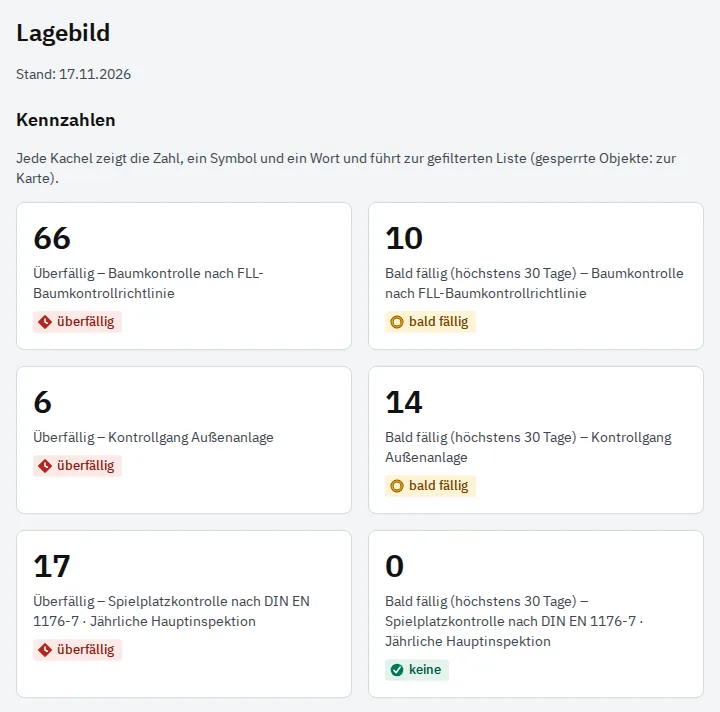
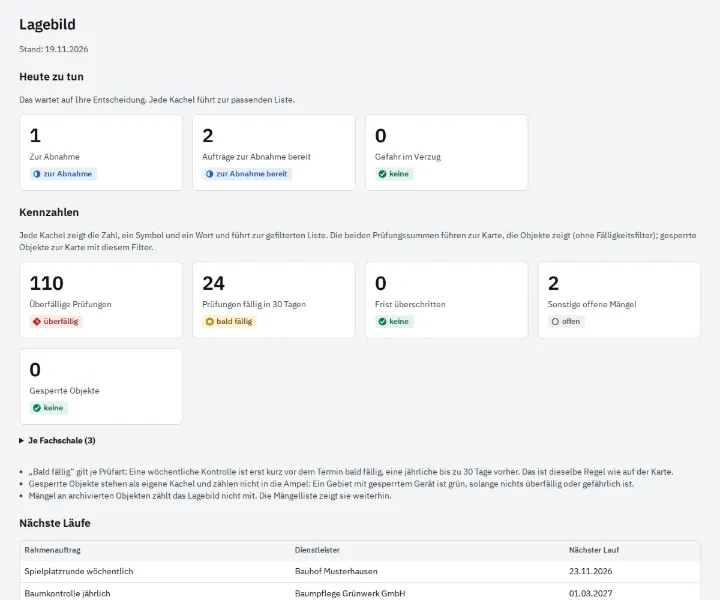
Website auf UX-Paket und Teilprojekt 9 aktualisiert
Neue Bilder (Lagebild-Hero mit „Heute zu tun“, Karte neues Layout, Auftrag anlegen,
Auftrags-Ergebnis, Nachweis), Texte zu Auftrag anlegen in drei Schritten, Ergebnis
mit Mängeln zuerst, Nachweis & Protokoll, Heute zu tun. Austauschprofile und
OGC API Features als Funktion statt „In Kürze“; README bereinigt.

diff --git a/index.html b/index.html
@@ -207,7 +207,6 @@ img{max-width:100%;height:auto;display:block}
 .tag-neu{background:var(--status-done-surface);color:var(--status-done-text)}
 .tag-offline{background:var(--brand-subtle);color:var(--brand)}
 .tag-ki{background:var(--status-progress-surface);color:var(--status-progress-text)}
-.tag-bald{background:var(--status-open-surface);color:var(--status-open-text);border:1px dashed var(--border-control)}
 .note{font-size:.95rem;color:var(--text-secondary);margin:1.5rem 0 0;max-width:52em}
 .pair{margin-top:3rem;max-width:960px}
 
@@ -243,7 +242,7 @@ th{font-weight:600;border-bottom:2px solid var(--text-primary)}
 td code{white-space:nowrap}
 .formats{display:flex;flex-wrap:wrap;gap:.5rem;margin:0 0 1.25rem;padding:0;list-style:none}
 .formats li{border:1px solid var(--border-control);border-radius:999px;padding:.15rem .7rem;font-weight:600;font-size:.88rem}
-.soon{border:1px dashed var(--border-control);border-radius:8px;padding:1rem 1.15rem;margin:1.5rem 0}
+.soon{border:1px solid var(--border-control);border-radius:8px;padding:1rem 1.15rem;margin:1.5rem 0}
 .soon p{margin:0;font-size:.97rem;color:var(--text-secondary)}
 .soon .tag{margin-bottom:.5rem}
 
@@ -297,7 +296,7 @@ footer p{margin:0 0 .4rem}
         </div>
         <p class="audience">Für Kommunen und Facility Management, Baumpflege- und Spielplatzdienstleister und den eigenen Bauhof.<br>Code unter EUPL-1.2, Fachschalen und Doku unter CC&nbsp;BY&nbsp;4.0.</p>
       </div>
-      <figure class="shot"><div class="shot-frame"><picture><source media="(max-width: 760px)" srcset="bilder/lagebild-720.webp" width="720" height="712"><img src="bilder/lagebild-1440.webp" width="1168" height="954" alt="Lagebild mit Kennzahlen-Kacheln: überfällige und bald fällige Kontrollen je Fachschale und Prüfart, offene Mängel, gesperrte Objekte, Aufträge zur Abnahme" fetchpriority="high" decoding="async"></picture></div><figcaption>Lagebild, die Startseite der FM. Darunter folgen nächste Läufe, Ampel je Gebiet und Termintreue. Demodaten.</figcaption></figure>
+      <figure class="shot"><div class="shot-frame"><picture><source media="(max-width: 760px)" srcset="bilder/lagebild-720.webp" width="720" height="600"><img src="bilder/lagebild-1440.webp" width="1440" height="1200" alt="Lagebild der FM: oben „Heute zu tun“ mit den Kacheln Zur Abnahme, Aufträge zur Abnahme bereit und Gefahr im Verzug, darunter Kennzahlen wie überfällige Prüfungen, Prüfungen fällig in 30 Tagen, offene Mängel und gesperrte Objekte, danach die nächsten Läufe der Rahmenaufträge" fetchpriority="high" decoding="async"></picture></div><figcaption>Lagebild, die Startseite der FM: oben „Heute zu tun“, darunter die Kennzahlen. Weiter unten folgen nächste Läufe, Ampel je Gebiet und Termintreue. Demodaten.</figcaption></figure>
     </div>
   </section>
 
@@ -311,15 +310,17 @@ footer p{margin:0 0 .4rem}
           <div class="step-text">
             <div class="step-no" aria-hidden="true">1</div>
             <h3>Bestand übernehmen, Auftrag erteilen.</h3>
-            <p>Bäume, Spielplätze und Spielgeräte kommen aus Ihrem Kataster. Auf der Karte wählen Sie Gebiet und fällige Objekte, Werkspur baut daraus ein Auftragspaket für den Dienstleister.</p>
+            <p>Bäume, Spielplätze und Spielgeräte kommen aus Ihrem Kataster. Der Auftrag entsteht in drei Schritten: Was wird geprüft, welche Objekte, wer und bis wann. Die Objekte wählen Sie auf der Karte, Werkspur baut daraus die Auftragsdatei für den Dienstleister.</p>
             <ul class="points">
               <li>Import aus GeoJSON, GeoPackage, CSV, Shapefile, KML, GML oder FlatGeobuf, mit Prüfbericht je Zeile vor dem Übernehmen</li>
               <li>Fälligkeit je Objekt, beim Spielplatz je Prüfart: Routine, operativ, Hauptinspektion</li>
-              <li>Auftrag mit Fachschale, Zeitraum, Dienstleister und auf Wunsch geforderter Qualifikation</li>
+              <li>Auftrag mit Fachschale, Zeitraum, Dienstleister und auf Wunsch geforderter Qualifikation; die Bezeichnung schlägt Werkspur aus Prüfart, Gebiet und Zeitraum vor</li>
+              <li>Offene Mängel an gewählten Objekten kommen angehakt mit und lassen sich abwählen, so wird nichts doppelt beauftragt</li>
+              <li>Eine feste Zusammenfassung mit „Entwurf anlegen“ bleibt beim Scrollen sichtbar, auch am Handy</li>
               <li>Rahmenaufträge legen wiederkehrende Kontrollen selbst an, wöchentlich bis jährlich</li>
             </ul>
           </div>
-          <figure class="shot"><div class="shot-frame"><picture><source media="(max-width: 760px)" srcset="bilder/auftrag-anlegen-720.webp" width="686" height="862"><img src="bilder/auftrag-anlegen-1440.webp" width="1134" height="581" alt="Karte zur Objektauswahl beim Anlegen eines Auftrags: 90 Bäume der Altstadt nach Stand, Legende mit Anzahlen, Knopf „Alle 90 angezeigten wählen“" loading="lazy" decoding="async"></picture></div><figcaption>Auftrag anlegen: Gebiet wählen, fällige Objekte auf der Karte auswählen.</figcaption></figure>
+          <figure class="shot"><div class="shot-frame"><picture><source media="(max-width: 760px)" srcset="bilder/auftrag-anlegen-720.webp" width="720" height="823"><img src="bilder/auftrag-anlegen-1440.webp" width="1440" height="1646" alt="Schritt „2. Welche Objekte?“ beim Anlegen eines Auftrags: Gebiet Altstadt, Stichtag, Karte mit 90 Bäumen nach Stand, darunter der Kasten Auswahl mit „90 Objekte gewählt, davon 39 überfällig, davon 0 mit Mangel“ und den Knöpfen „Alle 90 angezeigten wählen“ und „Auswahl leeren“" loading="lazy" decoding="async"></picture></div><figcaption>Auftrag anlegen, Schritt 2: Gebiet wählen, Objekte auf der Karte anklicken oder mit einem Rechteck auswählen. Der Kasten „Auswahl“ zählt mit.</figcaption></figure>
         </li>
         <li class="step">
           <div class="step-text">
@@ -373,21 +374,23 @@ footer p{margin:0 0 .4rem}
           <div class="step-text">
             <div class="step-no" aria-hidden="true">3</div>
             <h3>Rückgabe prüfen, Mängel beheben lassen.</h3>
-            <p>Der Dienstleister lädt die Rückgabe hoch. Werkspur übernimmt die Kontrollen, erkennt Konflikte und legt Mängel mit Frist an. Aus offenen Mängeln wird ein Maßnahmenauftrag, die Erledigung nimmt die FM ab.</p>
+            <p>Der Dienstleister lädt die Rückgabe hoch. Werkspur übernimmt die Kontrollen, erkennt Konflikte und legt Mängel mit Frist an. Die Auftragsseite zeigt das Ergebnis auf einen Blick, Mängel stehen zuerst. Aus offenen Mängeln wird ein Maßnahmenauftrag, die Erledigung nimmt die FM ab.</p>
             <ul class="points">
               <li>Feldweiser Abgleich: Was draußen erfasst wurde, geht nie verloren, echte Konflikte entscheidet ein Mensch</li>
               <li>Meldung „Ausgeführt“ mit Nachher-Foto, „Teilweise“ oder „Nicht möglich“ mit Bemerkung</li>
-              <li>Abnahme einzeln, gesammelt oder mit Begründung zurückgewiesen</li>
+              <li>Ergebniszeile mit „20 von 20 kontrolliert“, „4 Objekte mit Mangel“, Konflikten und Markierungen, darunter die Mängel mit Frist und Gefahr im Verzug</li>
+              <li>Alle Rückmeldungen je Objekt eingeklappt, jede mit allen Angaben aus der Rückgabe</li>
+              <li>Abnahme des Auftrags mit Namen und Zeit festgehalten, Erledigungen einzeln, gesammelt oder mit Begründung zurückgewiesen</li>
               <li>Rückmeldungen ohne geforderte Qualifikation werden angenommen und sichtbar markiert</li>
             </ul>
           </div>
-          <figure class="shot"><div class="shot-frame"><picture><source media="(max-width: 760px)" srcset="bilder/auftrag-rueckmeldungen-720.webp" width="720" height="1622"><img src="bilder/auftrag-rueckmeldungen-1440.webp" width="1168" height="1290" alt="Abgeschlossener Auftrag „Regelkontrolle Stadtpark“ mit Paketstand, Karte mit 16 kontrollierten Bäumen und 4 Mängeln und den ersten Rückmeldungen, eine davon mit Vermerk o. B." loading="lazy" decoding="async"></picture></div><figcaption>Auftrag nach der Rückgabe: Stand auf der Karte, Rückmeldungen je Baum, Abnahme und Nachweis.</figcaption></figure>
+          <figure class="shot"><div class="shot-frame"><picture><source media="(max-width: 760px)" srcset="bilder/auftrag-ergebnis-720.webp" width="720" height="281"><img src="bilder/auftrag-ergebnis-1440.webp" width="1440" height="562" alt="Abschnitt „Ergebnis“ eines abgeschlossenen Auftrags: Ergebniszeile mit „20 von 20 kontrolliert“, „4 Objekte mit Mangel“, 0 Konflikten, darunter die Tabelle „Mängel aus diesem Auftrag“ mit Objekt, Befund, Maßnahme, Frist, Gefahr im Verzug und Status" loading="lazy" decoding="async"></picture></div><figcaption>Ergebnis eines Auftrags nach der Rückgabe: Ergebniszeile, darunter die Mängel mit Frist. Die Tabelle ist hier auf zwei Zeilen gekürzt. Demodaten.</figcaption></figure>
         </li>
         <li class="step">
           <div class="step-text">
             <div class="step-no" aria-hidden="true">4</div>
             <h3>Nachweisen, prüfbar auch ohne Werkspur.</h3>
-            <p>Jedes Ereignis steht in einer unveränderbaren Hash-Kette je Organisation. Der Nachweis als PDF trägt den Kettenstand und einen Zeitstempel nach RFC&nbsp;3161.</p>
+            <p>Jedes Ereignis steht in einer unveränderbaren Hash-Kette je Organisation. Der Nachweis als PDF trägt den Kettenstand und einen Zeitstempel nach RFC&nbsp;3161. Auf jeder Auftragsseite liegt er im eingeklappten Bereich „Nachweis &amp; Protokoll“.</p>
             <ul class="points">
               <li>Nachweis je Auftrag, Objekt oder Gebiet mit Karte, Mängeln, Abnahme und Fotos mit SHA-256</li>
               <li>Das Zeitstempel-Token hängt am PDF und lässt sich mit <code>openssl ts -verify</code> prüfen</li>
@@ -395,7 +398,7 @@ footer p{margin:0 0 .4rem}
               <li>Ausstiegs-Export der ganzen Organisation, jederzeit und vollständig</li>
             </ul>
           </div>
-          <figure class="shot"><div class="shot-frame"><picture><source media="(max-width: 760px)" srcset="bilder/nachweis-720.webp" width="623" height="383"><img src="bilder/nachweis-1440.webp" width="1168" height="383" alt="Liste der Nachweise mit Umfang, Kettenstand „Kette geprüft“, Status und SHA-256-Prüfsumme je PDF" loading="lazy" decoding="async"></picture></div><figcaption>Nachweise mit Kettenstand und SHA-256. In der Testumgebung ist die Zeitstempelstelle abgeschaltet, im Betrieb steht hier der RFC-3161-Zeitstempel.</figcaption></figure>
+          <figure class="shot"><div class="shot-frame"><picture><source media="(max-width: 760px)" srcset="bilder/nachweis-720.webp" width="720" height="240"><img src="bilder/nachweis-1440.webp" width="1440" height="479" alt="Nachweis eines Auftrags als PDF-Bericht: Status „Fertig“, Stand mit Ereignisnummer und Hash, „Kette geprüft“, Zeitstempel, SHA-256-Prüfsumme mit Knopf „Kopieren“ und „Herunterladen“" loading="lazy" decoding="async"></picture></div><figcaption>Nachweis mit Kettenstand und SHA-256 im Bereich „Nachweis &amp; Protokoll“ des Auftrags. In der Testumgebung ist die Zeitstempelstelle abgeschaltet, im Betrieb steht hier der RFC-3161-Zeitstempel.</figcaption></figure>
         </li>
       </ol>
     </div>
@@ -407,26 +410,26 @@ footer p{margin:0 0 .4rem}
       <h2 id="fh">Vom Baumkataster bis zum Lagebericht.</h2>
       <p class="sec-lead">Zettel, Excel-Listen und Mails mit Fotos werden überflüssig. Die Weboberfläche läuft am Rechner, Tablet und Handy, alle Texte sind Deutsch.</p>
       <div class="grid">
-        <div class="cell"><span class="tag tag-neu">Neu</span><h3>Lagebild</h3><p>Startseite der FM: überfällige und bald fällige Kontrollen, offene Mängel nach Dringlichkeit, gesperrte Geräte, Ampel je Gebiet als Liste und Karte, Warnungen und Termintreue je Dienstleister.</p></div>
+        <div class="cell"><span class="tag tag-neu">Neu</span><h3>Lagebild</h3><p>Startseite der FM. Oben „Heute zu tun“: was auf Ihre Abnahme wartet und wo Gefahr im Verzug ist, jede Kachel führt zur passenden Liste. Darunter Kennzahlen zu überfälligen und bald fälligen Prüfungen, offenen Mängeln und gesperrten Objekten, dazu Ampel je Gebiet, Warnungen und Termintreue je Dienstleister.</p></div>
         <div class="cell"><span class="tag tag-neu">Neu</span><h3>Rahmenaufträge</h3><p>Wiederkehrende Kontrollen planen statt einzeln anlegen: je Fachschale, Prüfart, Gebiet und Dienstleister, als Entwurf oder automatisch freigegeben. Mit Vorschau des nächsten Laufs.</p></div>
         <div class="cell"><span class="tag tag-neu">Neu</span><h3>Lagebericht als PDF</h3><p>Stand der Verkehrssicherung zum Stichtag für Leitung und Gremien. Auf Knopfdruck oder monatlich, mit SHA-256 und Zeitstempel wie jeder Nachweis.</p></div>
         <div class="cell"><span class="tag tag-offline">Offline</span><h3>Feldarbeit in QField</h3><p>Auftragspakete mit GeoPackage, QGIS-Projekt und Formular. Werkspur-Leiste mit Fortschritt, „Nächster“ und Schnellerfassung o.&nbsp;B. Rückgabe als Datei oder über QFieldCloud.</p></div>
         <div class="cell"><h3>Baumkontrolle nach FLL</h3><p>Fachschale angelehnt an die FLL-Baumkontrollrichtlinie: Vitalität, Belaubung, Befunde, Maßnahmen mit Frist, Gefahr im Verzug und Kontrollintervall je Baum.</p></div>
         <div class="cell"><h3>Spielplätze nach DIN EN 1176-7</h3><p>Spielplätze und Spielgeräte mit drei Prüfarten: Routine (7 Tage), operativ (3 Monate), Hauptinspektion (12 Monate). Ein Gerät mit „Mangel – sperren“ bleibt gesperrt, bis der Mangel erledigt ist.</p></div>
-        <div class="cell"><h3>Maßnahmen und Abnahme</h3><p>Offene Mängel bündeln Sie zu einem Maßnahmenauftrag. Der Dienstleister sieht das Vorher-Foto und meldet mit Nachher-Foto zurück. Die FM nimmt ab, der Nachweis zeigt Meldung und Abnahme.</p></div>
+        <div class="cell"><h3>Maßnahmen und Abnahme</h3><p>Offene Mängel bündeln Sie zu einem Maßnahmenauftrag. Der Dienstleister sieht das Vorher-Foto und meldet mit Nachher-Foto zurück. Die FM nimmt ab, der Nachweis zeigt Meldung und Abnahme. „Zur Abnahme“ zeigt je Mangel Befund, Frist und Gefahr im Verzug mit Vorher- und Nachher-Foto.</p></div>
         <div class="cell"><h3>Qualifikation</h3><p>Dienstleister führen Mitarbeitende mit Qualifikationen, etwa FLL-zertifizierter Baumkontrolleur oder Spielplatzprüfer nach DIN 79161. Der Nachweis nennt die Qualifikation am Kontrolltag.</p></div>
         <div class="cell"><h3>Eigener Bauhof</h3><p>Der Bauhof bekommt Aufträge wie ein Dienstleister. Die FM legt Betrieb und Konten selbst an, jedes Konto setzt sein Passwort über einen Link, der nur einmal gilt.</p></div>
-        <div class="cell"><h3>Karte mit Bearbeitungsstand</h3><p>Objekte nach Stand eingefärbt, Gebietsumrisse, Legende mit Anzahlen. Hintergrund amtlich von basemap.de, Landes-Luftbilder per WMS einstellbar.</p></div>
+        <div class="cell"><h3>Karte mit Bearbeitungsstand</h3><p>Objekte nach Stand eingefärbt, Gebietsumrisse, Legende mit Anzahlen. Ein Klick auf ein Objekt öffnet die Seitenleiste „Objektdetails“, am Handy ein Bottom Sheet. Hintergrund amtlich von basemap.de, Landes-Luftbilder per WMS einstellbar.</p></div>
         <div class="cell"><h3>Fachschalen</h3><p>Gewerke als lesbare YAML-Dateien, versioniert und nach Veröffentlichung unveränderbar. Ein Nachweis belegt, welche Fassung galt. Mitgeliefert: Baumkontrolle, Spielplatz, Kontrollgang.</p></div>
         <div class="cell"><span class="tag tag-ki">KI</span><h3>KI-Assistent über MCP</h3><p>Fragen Sie in Claude oder einem anderen KI-Assistenten: „Welche Baumkontrollen in der Altstadt sind überfällig?“ Der Assistent sieht nur, was Sie sehen dürfen. Aufträge entwirft er, freigeben kann nur ein Mensch.</p></div>
         <div class="cell"><h3>Datenschutz eingebaut</h3><p>Namen werden nach der Frist pseudonymisiert, Fotos lassen sich löschen, die Kette bleibt gültig. Termintreue wertet Werkspur nur je Organisation aus, nie je Person.</p></div>
         <div class="cell"><h3>Mehrere Organisationen</h3><p>Eine Instanz trägt beliebig viele FM und Dienstleister. Ein Dienstleister sieht alle Aufträge seiner Auftraggeber in einer Liste, aber nur die Objekte seiner Aufträge.</p></div>
-        <div class="cell"><span class="tag tag-bald">In Kürze</span><h3>Austauschprofile und Kartendienst</h3><p>Bestandsdaten im Format fremder Kataster ein- und ausspielen, etwa der Open-Data-Baumkataster von Berlin und Dortmund. Das kommunale GIS liest den Kontrollstand über OGC API Features.</p></div>
+        <div class="cell"><span class="tag tag-neu">Neu</span><h3>Austauschprofile und Kartendienst</h3><p>Bestandsdaten im Format fremder Kataster ein- und ausspielen: mitgeliefert sind die Open-Data-Profile Berlin und Dortmund. Das kommunale GIS liest den Kontrollstand live über OGC API Features, QGIS und ArcGIS über Dienstzugänge, die Sie jederzeit widerrufen. Der Dienst besteht den offiziellen OGC-Konformitätstest.</p></div>
       </div>
       <p class="note">Fachschalen bilden Richtlinien und Normen ab, ersetzen sie aber nicht. Intervalle und Wertelisten sind Vorschläge, die Sie vor dem Einsatz fachlich prüfen.</p>
 
       <div class="pair">
-        <figure class="shot"><div class="shot-frame"><picture><source media="(max-width: 760px)" srcset="bilder/karte-720.webp" width="720" height="775"><img src="bilder/karte-1440.webp" width="1168" height="737" alt="Karte mit 238 Objekten der Demodaten als Statussymbole in drei Gebieten, daneben die Legende mit Anzahlen je Stand" loading="lazy" decoding="async"></picture></div><figcaption>Karte mit Bearbeitungsstand: gesperrt, Mangel, überfällig, bald fällig, in Ordnung. Testaufnahme ohne Hintergrundkarte, im Betrieb liegt basemap.de darunter.</figcaption></figure>
+        <figure class="shot"><div class="shot-frame"><picture><source media="(max-width: 760px)" srcset="bilder/karte-720.webp" width="720" height="597"><img src="bilder/karte-1440.webp" width="1440" height="1194" alt="Karte ohne gewähltes Objekt: Filter Gebiet und Fachschale, 238 Objekte der Demodaten als Statussymbole in drei gestrichelt umrandeten Gebieten, daneben die Legende mit Anzahlen je Stand" loading="lazy" decoding="async"></picture></div><figcaption>Karte mit Bearbeitungsstand: gesperrt, Mangel, überfällig, bald fällig, in Ordnung. Testaufnahme ohne Hintergrundkarte, im Betrieb liegt basemap.de darunter.</figcaption></figure>
       </div>
 
       <h3 class="roles-title">Wer was macht</h3>
@@ -497,8 +500,8 @@ docker compose exec app python manage.py demodaten_laden</code></pre>
           <li>GeoJSON</li><li>GeoPackage</li><li>CSV</li><li>Shapefile</li><li>KML</li><li>GML</li><li>FlatGeobuf</li><li>PDF</li><li>QGIS-Projekt</li>
         </ul>
         <div class="soon">
-          <span class="tag tag-bald">In Kürze</span>
-          <p>Austauschprofile für fremde Kataster (mitgeliefert: Open-Data-Baumkataster Berlin und Dortmund) und OGC API Features, damit QGIS und ArcGIS den Kontrollstand live lesen.</p>
+          <span class="tag tag-neu">Neu</span>
+          <p>Austauschprofile für fremde Kataster (mitgeliefert: Open-Data-Profile Berlin und Dortmund) und ein Kartendienst nach OGC API Features: QGIS und ArcGIS lesen den Kontrollstand live, mit Dienstzugang oder, wenn Sie es einschalten, als Open Data. Der Dienst hat den offiziellen OGC-Konformitätstest bestanden.</p>
         </div>
       </div>
       <div>

diff --git a/README.md b/README.md
@@ -35,8 +35,6 @@ einer eigenen Domain (dann `CNAME`-Datei ergänzen).
   vor dem Veröffentlichen anlegen oder die Links in `index.html` anpassen (Suchen nach
   `BroetzensIT-CattlesCows/werkspur`). Der Installationsblock unter „Selbst betreiben“ nutzt
   `git clone` dieses Repositorys.
-- **„In Kürze“:** Austauschprofile und OGC API Features (Teilprojekt 9) sind als „In Kürze“
-  gekennzeichnet. Nach Fertigstellung die Marken in „Neu“ ändern.
 - **og:image** ist relativ angegeben; manche Dienste verlangen eine absolute URL. Nach dem
   Veröffentlichen ggf. auf die volle Pages-Adresse setzen.
 
